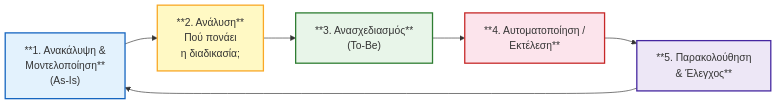
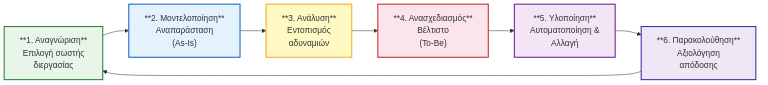
docs(lecture2): enhance BPM lifecycle and add new topics
Updated the BPM lifecycle diagram and its textual description to reflect
the 6-stage model. Added new sections covering criteria for process
selection and the roles of key stakeholders in BPM initiatives.

diff --git a/msc/lectures/lecture2_el.md b/msc/lectures/lecture2_el.md
@@ -856,14 +856,20 @@ $$EOQ = \sqrt{\frac{2 \cdot D \cdot S}{H}}$$
 
 # Τι είναι το BPM (Business Process Management);
 
-<!-- _class: small -->
+<!-- _class: xsmall -->
 
 <div class="columns">
 <div>
 
 **Ορισμός:** Η μεθοδολογία για τον σχεδιασμό, την εκτέλεση, την παρακολούθηση και τη βελτιστοποίηση των διεργασιών.
 
-**Ο Κύκλος Ζωής του BPM:**
+**Ο Κύκλος Ζωής του BPM (6 Στάδια):**
+1. **Αναγνώριση** — Ολιστική εικόνα & επιλογή της σωστής διεργασίας
+2. **Μοντελοποίηση** — Αναπαράσταση του As-Is μοντέλου
+3. **Ανάλυση** — Εντοπισμός αδυναμιών & bottlenecks
+4. **Ανασχεδιασμός** — Σχεδιασμός του βέλτιστου To-Be μοντέλου
+5. **Υλοποίηση** — Αυτοματοποίηση & οργανωσιακή αλλαγή
+6. **Παρακολούθηση** — Συνεχής αξιολόγηση απόδοσης
 
 </div>
 <div>
@@ -874,6 +880,23 @@ $$EOQ = \sqrt{\frac{2 \cdot D \cdot S}{H}}$$
 </div>
 
 <!-- Το BPM (Business Process Management) δεν είναι λογισμικό. Είναι μια ολόκληρη διοικητική πρακτική. Είναι ο κύκλος ζωής της βελτίωσης. Δεν μπορείς να βελτιώσεις κάτι αν δεν το δεις. Πρώτα αποτυπώνουμε το πώς δουλεύουμε σήμερα (Το As-Is), βρίσκουμε τα λάθη, σχεδιάζουμε το πώς θα έπρεπε να δουλεύουμε (Το To-Be) και στο τέλος το αυτοματοποιούμε. -->
+
+---
+
+# Πώς επιλέγουμε ποια διαδικασία θα ανασχεδιάσουμε;
+
+<!-- _class: small -->
+
+Δεν μπορούμε να αλλάξουμε τα πάντα ταυτόχρονα — πρέπει να **θέσουμε προτεραιότητες**.
+
+**Κριτήρια Αξιολόγησης:**
+
+- **«Υγεία» της διεργασίας:** Υπάρχουν πολλά σφάλματα; Αργεί υπερβολικά; Έχει υψηλό κόστος;
+- **Ευθυγράμμιση με στρατηγικούς στόχους:** Βοηθά στην εκπλήρωση της στρατηγικής της επιχείρησης;
+- **Εφικτότητα:** Είναι ρεαλιστικό να αλλάξει; Υπάρχουν διαθέσιμοι πόροι και βούληση αλλαγής;
+- **Κουλτούρα & Ρίσκο:** Είναι ο οργανισμός έτοιμος να αλλάξει τον τρόπο εργασίας του;
+
+<!-- Ένα κλασικό λάθος στα BPM projects: θέλουμε να φτιάξουμε τα πάντα ταυτόχρονα και δεν φτιάχνουμε τίποτα. Πρέπει να διαλέξουμε τη σωστή διαδικασία για να ξεκινήσουμε. Πρώτα κοιτάμε: ποια διαδικασία πονάει περισσότερο; Ποια κοστίζει, αργεί, κάνει τα περισσότερα λάθη; Μετά: αν τη φτιάξουμε, βοηθά την εταιρεία να πετύχει τους στρατηγικούς της στόχους; Και τρίτον: είναι ρεαλιστικό; Έχουμε τον προϋπολογισμό, τους ανθρώπους, και κυρίως — έχουμε τη βούληση της ηγεσίας; Χωρίς αυτά, κανένα BPM project δεν ζει. -->
 
 ---
 
@@ -921,7 +944,9 @@ $$EOQ = \sqrt{\frac{2 \cdot D \cdot S}{H}}$$
 
 > **MITOS.gov.gr** — Εθνικό Μητρώο Διαδικασιών: αποτυπώνει σε δομημένη, δημόσια προσβάσιμη βάση όλες τις διοικητικές διεργασίες του Ελληνικού κράτους.
 
-<!-- Πριν χαρτογραφήσεις μεμονωμένες διεργασίες, πρέπει να ξέρεις πού εντάσσονται. Στην κορυφή οι Διοικητικές — Στρατηγική, Compliance. Στη μέση οι Κύριες — αυτές που φτιάχνουν ό,τι πληρώνει ο πελάτης. Και κάτω οι Υποστηρικτικές (HR, IT). Ένα πραγματικό ελληνικό παράδειγμα: το MITOS.gov.gr αποτυπώνει τις διεργασίες ολόκληρου του δημοσίου. -->
+<!-- Πριν χαρτογραφήσεις μεμονωμένες διεργασίες, πρέπει να ξέρεις πού εντάσσονται. Στην κορυφή οι Διοικητικές — Στρατηγική, Compliance. Στη μέση οι Κύριες — αυτές που φτιάχνουν ό,τι πληρώνει ο πελάτης. Και κάτω οι Υποστηρικτικές (HR, IT). Ένα πραγματικό ελληνικό παράδειγμα: το MITOS.gov.gr αποτυπώνει τις διεργασίες ολόκληρου του δημοσίου.
+
+Για να καταλάβετε πώς φαίνεται μια πραγματική αποτύπωση διαδικασιών σε επίπεδο κράτους, αρκεί να επισκεφθείτε το mitos.gov.gr — το Εθνικό Μητρώο Διαδικασιών. Εκεί, το Ελληνικό Δημόσιο έχει καταγράψει βήμα-βήμα χιλιάδες διαδικασίες (όπως π.χ. η Δήλωση Κλοπής Διαβατηρίου), αναφέροντας ακριβώς ποιος είναι ο αρμόδιος υπάλληλος, τι δικαιολογητικά χρειάζονται και ποια είναι η ροή. Αυτό είναι η επιτομή της διαχείρισης διαδικασιών στην πράξη! -->
 
 ---
 
@@ -960,6 +985,21 @@ $$EOQ = \sqrt{\frac{2 \cdot D \cdot S}{H}}$$
 
 ---
 
+# Οι Εμπλεκόμενοι (Stakeholders) στην Αλλαγή
+
+<!-- _class: small -->
+
+- **Process Owner (Ιδιοκτήτης Διαδικασίας):** Το στέλεχος με την τελική ευθύνη για τα αποτελέσματα και τη βελτίωση — απαντά στην ερώτηση «Ποιος χάνει αν αυτό πάει στραβά;».
+- **Business Analyst (Αναλυτής):** Καταγράφει απαιτήσεις, σχεδιάζει το BPMN και προτείνει αλλαγές που φέρνουν μετρήσιμη αξία.
+- **Process Participants (Συμμετέχοντες):** Οι εργαζόμενοι που εκτελούν τα καθημερινά βήματα — η φωνή τους είναι κρίσιμη στη φάση ανάλυσης.
+- **System Engineers (IT):** Αναλαμβάνουν την τεχνική υλοποίηση και αυτοματοποίηση της διεργασίας μέσω BPMS/RPA.
+
+> **Κανόνας:** Κανένα BPM project δεν επιτυγχάνει χωρίς **δέσμευση της ηγεσίας** και **συμμετοχή των εργαζομένων** — η τεχνολογία είναι το τελευταίο κομμάτι, όχι το πρώτο.
+
+<!-- Εδώ βρίσκεται η καρδιά της αποτυχίας πολλών BPM projects: αγνοούν τους ανθρώπους. Ο Process Owner δεν είναι γραφειοκρατικός τίτλος — είναι αυτός που σηκώνει το τηλέφωνο όταν κάτι πάει στραβά. Οι Participants είναι αυτοί που γνωρίζουν καλύτερα από όλους τα προβλήματα — αλλά συχνά δεν τους ρωτάμε. Και το IT έρχεται τελευταίο, αφού πρώτα έχουμε καταλάβει τι θέλουμε να φτιάξουμε. -->
+
+---
+
 # Εισαγωγή στο BPMN 2.0
 
 **Τι είναι:** Business Process Model and Notation — το παγκόσμιο, τυποποιημένο πρότυπο **(ISO 19510)** για τη χαρτογράφηση διεργασιών.
@@ -973,7 +1013,9 @@ $$EOQ = \sqrt{\frac{2 \cdot D \cdot S}{H}}$$
 
 > Το BPMN 2.0 είναι **lingua franca** — τη διαβάζει ο CEO, την εκτελεί ο κώδικας.
 
-<!-- Παλιά, οι managers έγραφαν διαδικασίες σε κείμενα 50 σελίδων στο Word που κανείς δεν διάβαζε, και το IT έφτιαχνε κώδικα που οι managers δεν καταλάβαιναν. Το BPMN 2.0 ήρθε για να λύσει αυτό το πρόβλημα. Είναι μια οπτική 'lingua franca'. Μια γλώσσα από σύμβολα που τη διαβάζει ο CEO και την καταλαβαίνει, και την παίρνει ο προγραμματιστής και την κάνει κώδικα αυτοματοποίησης. -->
+<!-- Παλιά, οι managers έγραφαν διαδικασίες σε κείμενα 50 σελίδων στο Word που κανείς δεν διάβαζε, και το IT έφτιαχνε κώδικα που οι managers δεν καταλάβαιναν. Το BPMN 2.0 ήρθε για να λύσει αυτό το πρόβλημα. Είναι μια οπτική 'lingua franca'. Μια γλώσσα από σύμβολα που τη διαβάζει ο CEO και την καταλαβαίνει, και την παίρνει ο προγραμματιστής και την κάνει κώδικα αυτοματοποίησης.
+
+Να σημειώσουμε εδώ ότι το BPMN είναι τέλειο για διαδικασίες που μοιάζουν με 'γραμμή παραγωγής' — επαναλαμβανόμενες και δομημένες, όπως η έγκριση άδειας. Αν όμως έχουμε μια διαδικασία ανθρωποκεντρική, που αλλάζει συνεχώς ανάλογα με την κρίση του υπαλλήλου — π.χ. η διαχείριση ενός ασθενούς στα Επείγοντα ή η εκδίκαση μιας μήνυσης — τότε χρησιμοποιούμε μια άλλη γλώσσα μοντελοποίησης: το CMMN (Case Management Model and Notation). -->
 
 ---
 
